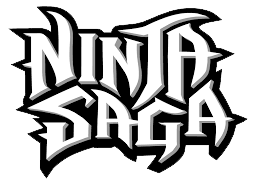
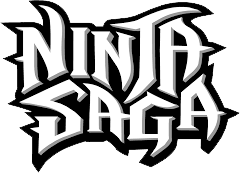
added intro

diff --git a/js/Transition.js b/js/Transition.js
@@ -7,7 +7,7 @@
           this.victoryImage = this.imageLoader.images.victory;
           this.defeatImage = this.imageLoader.images.defeat;
 
-
+          this.opacity = 1;
           this.checkMarkCoordinates = {
               x: 626,
               y: 426,
@@ -41,7 +41,6 @@
           ctx.lineWidth = 1;
           ctx.fillText(this.game.player.level, 580, 330);
           ctx.strokeText(this.game.player.level, 580, 330);
-
       }
 
       goToVillage(event) {
@@ -79,6 +78,13 @@
               this.game.gameState = GAME_STATE.VILLAGE_STATE;
           }
 
+      }
+
+      drawIntro(ctx) {
+          ctx.drawImage(this.imageLoader.images.ninjaSagaIcon, 360, 100, 290, 213);
+          ctx.drawImage(this.imageLoader.images.kurenai, 400, 300, 200, 200);
+          ctx.drawImage(this.imageLoader.images.kurenaiM, 400, 300, 200, 200);
+          
       }
 
   }

diff --git a/js/Game.js b/js/Game.js
@@ -1,6 +1,6 @@
 class Game {
     constructor(canvas, ImageLoader, audioLoader) {
-        this.gameState = GAME_STATE.MENU_STATE;
+        this.gameState = GAME_STATE.INTRO_STATE;
 
         this.audioLoader = audioLoader;
         this.imageLoader = ImageLoader;
@@ -46,6 +46,13 @@ class Game {
 
         switch (this.gameState) {
 
+            case GAME_STATE.INTRO_STATE:
+                this.transition.drawIntro(ctx);
+                setTimeout(()=>{
+                    this.gameState = GAME_STATE.MENU_STATE;
+                }, 3000);
+                break;
+            
             case GAME_STATE.MENU_STATE:
                 this.menu.draw(ctx);
                 break;

diff --git a/js/utilities/imageLoader.js b/js/utilities/imageLoader.js
@@ -78,6 +78,9 @@ class ImageLoader {
         this.loadImage("crossIcon", "./images/cross.png");
         this.loadImage("gameBackground", "./images/game_background.png");
         
+        this.loadImage("kurenai", "./images/weapon.png");
+        this.loadImage("ninjaSagaIcon", "./images/ninjaSagaIcon.png");
+        this.loadImage("kurenaiM", "./images/kurenaiIcon.png");
         
      
         this.numberOfImages = Object.keys(this.images).length;

diff --git a/js/data/fixed.js b/js/data/fixed.js
@@ -8,7 +8,8 @@ const GAME_STATE = {
     EQUIP_PET_STATE: 6,
     SELECT_MISSION_STATE: 7,
     GAME_VICTORY: 8,
-    GAME_DEFEAT: 9
+    GAME_DEFEAT: 9,
+    INTRO_STATE: 10
 }
 
 const BATTLE_STATE = {
